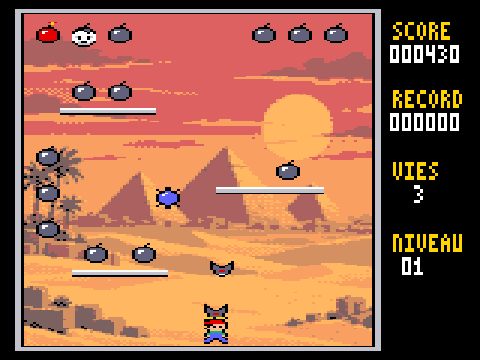
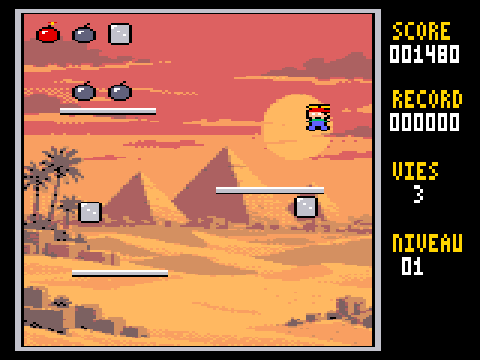
README : inspiré de Bomb Jack ; film d'une vraie partie (pilote automatique, sans invincibilité)

diff --git a/test/film.py b/test/film.py
@@ -1,27 +1,132 @@
-"""Petit film du jeu (écran reconstitué au passage du faisceau) -> apercus/toboum.gif"""
-import os, sys
+"""Petit film d'une vraie partie (écran reconstitué au passage du faisceau) -> apercus/toboum.gif
+
+Personne n'est invincible : un pilote automatique joue. Toutes les 0,2 s, il essaie chaque
+action sur une copie du jeu et les classe selon qu'elles rapprochent Toto de sa cible : la
+bombe la plus proche (l'allumée compte double), la pièce éclair si elle est là, un glaçon
+pendant le gel ; s'il piétine 2 s sur une bombe, il en vise une autre. Il garde la
+première après laquelle Toto peut encore échapper aux ennemis pendant 0,8 s (en restant,
+en allant à gauche, à droite ou en sautant) ; en cas d'impasse, il revient sur ses choix.
+Le film est déterministe (même résultat à chaque lancement).
+    python3 film.py [secondes de jeu]      (20 par défaut ; quelques minutes de calcul)"""
+import os, sys, copy
 HERE = os.path.dirname(os.path.abspath(__file__))
 from to9sim import TO9, sym
 from PIL import Image
 os.chdir(os.path.join(HERE, '..', 'source'))
 S = sym('toboum.lst')
-s = TO9('TOBOUM.BIN', fd='TOBOUM.fd'); s.run_frames(50); s.key(0x0D); s.run_frames(120)   # écran titre : une touche, puis le niveau se charge
-s.beam_on()
-frames = []; iters = []
-def film(n):
-    for i in range(n):
-        it0 = s.peek(S['ITER']); s.run_frames(2)
-        iters.append((s.peek(S['ITER']) - it0) % 256)
+E = S['ENTS']
+DUREE = int(sys.argv[1]) if len(sys.argv) > 1 else 20
+SEG = 10                                            # images par décision (0,2 s)
+GAUCHE, DROITE, HAUT, BAS = 0x08, 0x09, 0x0B, 0x0A
+ACTIONS = [None, ('hold', GAUCHE), ('hold', DROITE), ('key', HAUT), ('hold', HAUT), ('hold', BAS)]
+
+def peek(s, lab, off=0): return s.mem.ram[S[lab] + off]
+def score(s): return int(bytes(s.mem.ram[S['SCORE']:S['SCORE'] + 3]).hex())
+def vivant(s): return peek(s, 'GSTATE') in (0, 2) and peek(s, 'LIVES') == 3
+
+def cible(s):
+    """(paire, ligne) visée"""
+    n = peek(s, 'NENN')
+    if peek(s, 'POWER') > 25 and n:                 # gel : le glaçon le plus proche
+        tp, ty = peek(s, 'ENTS'), peek(s, 'ENTS', 1)
+        return min(((s.mem.ram[E + 16 * k], s.mem.ram[E + 16 * k + 1]) for k in range(1, n + 1)),
+                   key=lambda c: abs(c[0] - tp) * 3 + abs(c[1] - ty))
+    if peek(s, 'COINON'):                           # la pièce (entité qui suit les ennemis)
+        b = E + 16 * (n + 1); return s.mem.ram[b], s.mem.ram[b + 1]
+    return bombe_visee(s)[1:]
+
+EXCLUES = set()                                     # bombes abandonnées (Toto piétinait)
+def bombe_visee(s):
+    """(n°, paire, ligne) de la bombe restante la plus proche ; l'allumée paraît 2 fois plus près"""
+    tp, ty = peek(s, 'ENTS'), peek(s, 'ENTS', 1)
+    bp = s.mem.read_word(S['BOMBPTR']); lit = peek(s, 'LIT'); best = None
+    for i in range(18):
+        if not s.mem.ram[S['BSTATE'] + i] or i in EXCLUES: continue
+        p, y = s.mem.ram[bp + 2 * i], s.mem.ram[bp + 2 * i + 1]
+        d = (abs(p - tp) * 3 + abs(y - ty)) * (0.5 if i == lit else 1)
+        if best is None or d < best[0]: best = (d, i, p, y)
+    if best is None:
+        if EXCLUES: EXCLUES.clear(); return bombe_visee(s)
+        return None, tp, ty                         # plus de bombe : niveau fini
+    return best[1:]
+
+def valeur(s, s0):
+    if not vivant(s): return -10 ** 9
+    p, y = cible(s)
+    d = abs(p - peek(s, 'ENTS')) * 3 + abs(y - peek(s, 'ENTS', 1))
+    return (score(s) - score(s0)) * 10 - d
+
+def joue(s, a):
+    if a is None: return
+    if a[0] == 'hold': s.hold(a[1], SEG)
+    else: s.key(a[1])
+
+def essai(s, a):
+    c = copy.deepcopy(s); c.beam = None
+    joue(c, a); c.run_frames(SEG)
+    return valeur(c, s), c
+
+def echappe(c, n=40):
+    """Toto peut-il encore éviter tout contact pendant n images (une des 4 façons) ?"""
+    for a in (None, ('hold', GAUCHE), ('hold', DROITE), ('key', HAUT)):
+        d = copy.deepcopy(c)
+        if a: (d.hold(a[1], n) if a[0] == 'hold' else d.key(a[1]))
+        d.run_frames(n)
+        if vivant(d): return True
+    return False
+
+def classe(s):
+    """actions classées, avec l'état obtenu ; celles qui mènent à une impasse sont écartées"""
+    res = sorted(((essai(s, a), k) for k, a in enumerate(ACTIONS)), key=lambda r: -r[0][0])
+    return [(ACTIONS[k], c) for (v, c), k in res if v > -10 ** 9]
+
+def demarre(faisceau):
+    s = TO9('TOBOUM.BIN', fd='TOBOUM.fd')
+    if faisceau: s.beam_on()
+    return s
+TITRE, CHARGE = 80, 150                             # écran titre, puis chargement du niveau
+
+# 1. recherche (sans capture d'image)
+s = demarre(False); s.run_frames(TITRE); s.key(0x0D); s.run_frames(CHARGE)
+N = DUREE * 50 // SEG
+hist = []                                           # par segment : [actions classées (+ état après), n° essayé]
+etat = s; seg = 0; retours = 0; dernier = [18, 0]
+while seg < N:
+    if len(hist) == seg: hist.append([classe(etat), 0])
+    cands, i = hist[seg]
+    while i < len(cands) and not echappe(cands[i][1]): i += 1
+    hist[seg][1] = i
+    if i >= len(cands):                             # impasse : on revient sur le choix précédent
+        hist.pop(); seg -= 1; retours += 1
+        assert seg >= 0 and retours < 200, 'aucune partie sans contact trouvée'
+        hist[seg][1] += 1
+        etat = hist[seg - 1][0][hist[seg - 1][1]][1] if seg else s
+        continue
+    etat = cands[i][1]; seg += 1
+    if peek(etat, 'BLEFT') != dernier[0]: dernier[:] = [peek(etat, 'BLEFT'), seg]; EXCLUES.clear()
+    elif seg - dernier[1] >= 10 and not peek(etat, 'COINON') and not peek(etat, 'POWER'):
+        EXCLUES.add(bombe_visee(etat)[0]); dernier[1] = seg     # piétine : autre bombe
+    if seg % 5 == 0:
+        print(f"{seg * SEG / 50:5.1f} s : score {score(etat):06d}, bombes restantes {peek(etat, 'BLEFT')}, "
+              f"ennemis {peek(etat, 'NENN')}, pièce {peek(etat, 'COINON')}, gel {peek(etat, 'POWER')}, retours {retours}", flush=True)
+choix = [h[0][h[1]][0] for h in hist]
+
+# 2. le film : la même partie rejouée, image par image telle que le faisceau l'affiche
+s = demarre(True)
+images = []
+def filme(n):
+    for i in range(n // 2):
+        s.run_frames(2)
         pal = s.palette_rgb(); px = s.beam_pixels()
         im = Image.new('RGB', (160, 200)); im.putdata([pal[c] for r in px for c in r])
-        frames.append(im.resize((480, 360), Image.NEAREST))
-script = [(0x09, 30), (0x0B, 8), (None, 20), (0x0B, 60), (0x08, 25), (0x0B, 10), (0x08, 40), (None, 30),
-          (0x0B, 12), (0x09, 50), (0x0B, 70), (0x08, 60), (None, 60), (0x09, 40), (0x0B, 80), (None, 80)]
-for key, n in script:
-    s.mem.ram[S['INVUL']] = 200                     # le film ne s'arrête pas sur un contact
-    if key: s.hold(key, n)
-    film(max(1, n // 2))
-frames[0].save(os.path.join('..', 'apercus', 'toboum.gif'), save_all=True, append_images=frames[1:], duration=40, loop=0)
-frames[len(frames) * 2 // 3].save(os.path.join('..', 'apercus', 'jeu.png'))
-print(f'{len(frames)} images, score {bytes(s.mem.ram[S["SCORE"]:S["SCORE"]+3]).hex()}, ennemis {s.peek(S["NENN"])}, '
-      f'tours d\'affichage par image (moyenne) {sum(iters) / len(iters) / 2:.2f}')
+        images.append(im.resize((480, 360), Image.NEAREST))
+filme(TITRE)
+s.key(0x0D); s.run_frames(CHARGE)
+for a in choix:
+    joue(s, a); filme(SEG)
+assert vivant(s), 'la partie rejouée diffère de la recherche'
+out = os.path.join('..', 'apercus', 'toboum.gif')
+images[0].save(out, save_all=True, append_images=images[1:], duration=40, loop=0, optimize=True)
+images[len(images) * 2 // 3].save(os.path.join('..', 'apercus', 'jeu.png'))
+print(f"{len(images)} images, score {score(s):06d}, vies {peek(s, 'LIVES')}, niveau {peek(s, 'LEVELB'):x}, "
+      f"{os.path.getsize(out) // 1024} Ko")

diff --git a/README.md b/README.md
@@ -1,13 +1,15 @@
-# TOboum — jeu de plates-formes pour Thomson TO9
+# TOboum — un jeu inspiré de Bomb Jack pour Thomson TO9
 
-Toto porte une casquette à hélice. Il doit ramasser les 18 bombes de chaque niveau en évitant robots, chauves-souris, boules à pics et nuages en colère. Le jeu est écrit entièrement en assembleur 6809 pour le **Thomson TO9** (1985), en 160 × 200 pixels et 16 couleurs, et testé dans l'émulateur [DCMOTO](http://dcmoto.free.fr/).
+Un jeu de plates-formes inspiré de **Bomb Jack** (Tehkan, 1984). Toto porte une casquette à hélice. Il doit ramasser les 18 bombes de chaque niveau, de préférence dans l'ordre où elles s'allument, en évitant robots, chauves-souris, boules à pics et nuages en colère. Le jeu est écrit entièrement en assembleur 6809 pour le **Thomson TO9** (1985), en 160 × 200 pixels et 16 couleurs, et testé dans l'émulateur [DCMOTO](http://dcmoto.free.fr/).
 
-*A platform game for the Thomson TO9 8-bit computer, written in 6809 assembly (French UI).*
+*A Bomb Jack-inspired platform game for the Thomson TO9 8-bit computer, written in 6809 assembly (French UI).*
 
 Le jeu a été entièrement vibecodé avec [Claude](https://claude.ai) (Anthropic) : moteur 6809, sprites, outils, simulateur et tests. Les décors ont été générés par un modèle d'image à partir de descriptions en texte ([graphismes/PROMPTS.md](graphismes/PROMPTS.md)), puis convertis pour le TO9.
 *Entirely vibe-coded with Claude.*
 
 ![En jeu](apercus/toboum.gif)
+
+> TOboum est un projet amateur, sans lien avec Koei Tecmo. Bomb Jack est une marque de Koei Tecmo. Le jeu reprend l'idée et les règles générales de Bomb Jack, mais aucune de ses données : graphismes, sons, niveaux et code ont été créés pour ce projet.
 
 > Version en cours de développement.
 
@@ -66,7 +68,7 @@ pip install pillow MC6809
 cd test
 python3 test_jeu.py         # saut, vol plané, bombes, ennemis, vies, niveaux, fin de partie, 40 s au hasard
 python3 scintillement.py    # sprites entiers à l'écran avec 2 à 8 ennemis (--piece : pièce éclair en plus)
-python3 film.py             # petit film -> apercus/toboum.gif
+python3 film.py             # une partie jouée par un pilote automatique -> apercus/toboum.gif
 python3 niveaux.py          # l'écran titre et les 5 niveaux -> apercus/titre.png, niveaux.png
 ```
 
